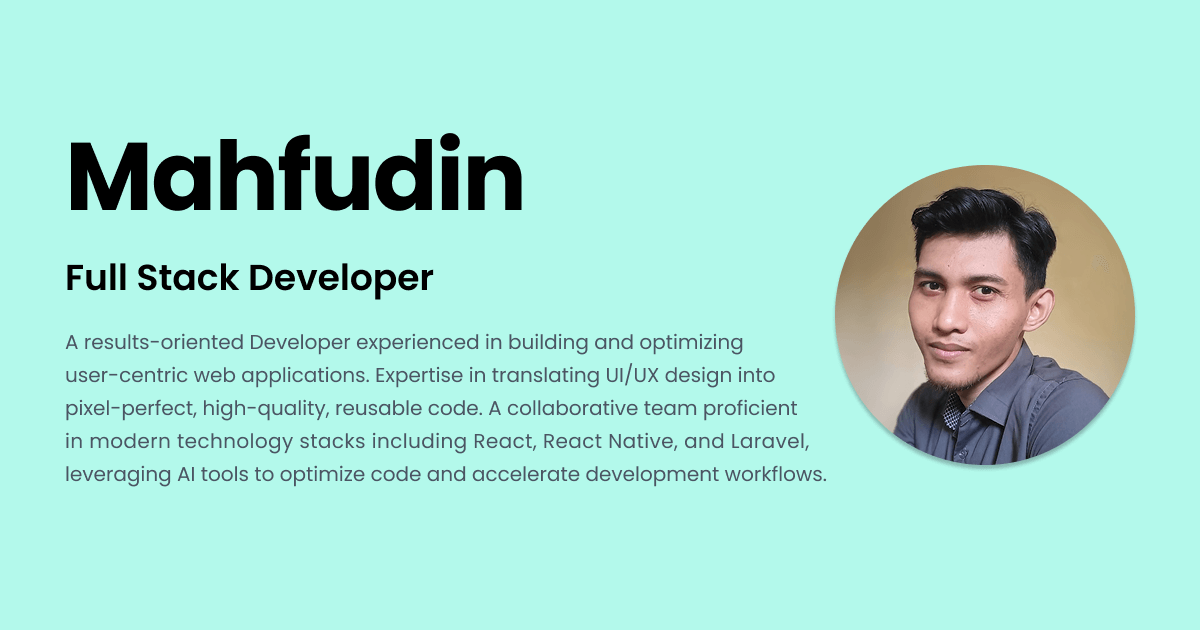
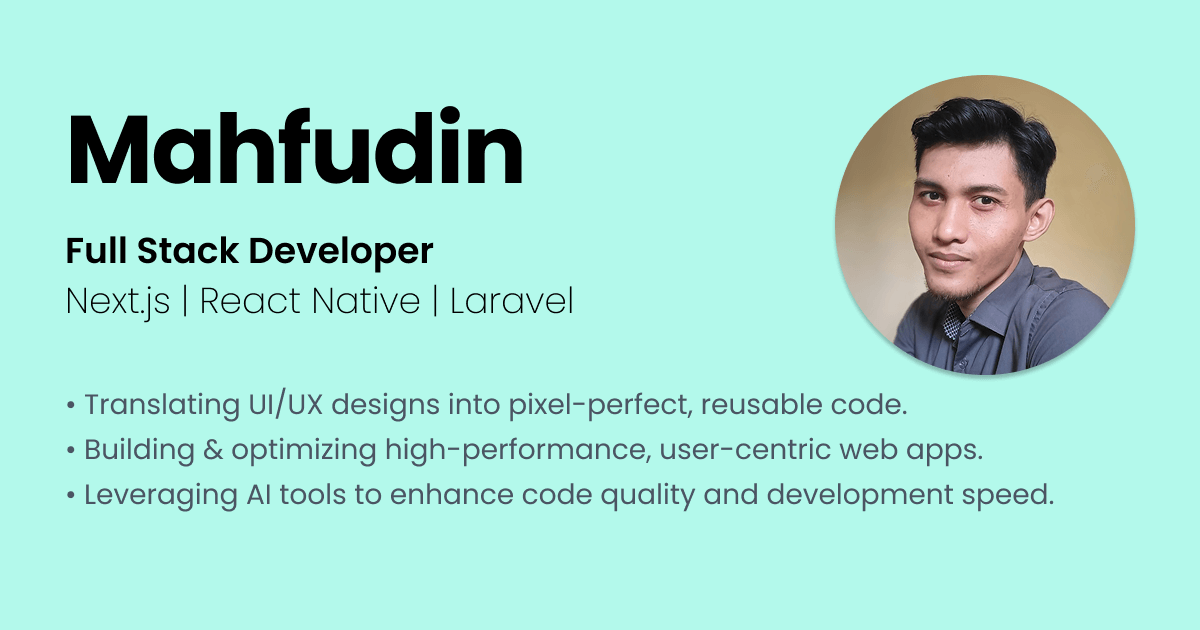
chore: update metadata for SEO

Changed region(s): [[0.0308, 0.1206, 0.9558, 0.8143], [0.0617, 0.1508, 0.4625, 0.3317]]

diff --git a/src/app/layout.tsx b/src/app/layout.tsx
@@ -7,15 +7,15 @@ import Footer from "@/components/layout/footer";
 
 const inter = Inter({ subsets: ["latin"] });
 
-const title = "Mahfudin Fudi | Web Developer From Jakarta, ID.";
+const title = "Mahfudin Fudi | Full Stack Developer From Jakarta, ID.";
 const description =
-  "A self-praclaimed designer who specializes in frontend development (React.js), from Jakarta, ID";
+  "A collaborative Developer specializing in user-centric applications. Expertise in Next.js, React Native, Laravel, and AI-powered to optimize code and accelerate development workflows.";
 const url = "https://fudi-mahfudin.github.io";
 
 export const metadata: Metadata = {
   title,
   description,
-  keywords: ["Frontend Developer", "React Developer", "Next.js Developer"],
+  keywords: ["Full Stack Developer", "Next.js", "React Native", "Laravel"],
   creator: "Mahfudin Fudi",
   openGraph: {
     type: "website",

diff --git a/src/lib/data.tsx b/src/lib/data.tsx
@@ -99,7 +99,7 @@ export const TECHNOLOGIES: TechDetails[] = [
     logo: LogoTailwindcss,
     url: 'https://tailwindcss.com',
   },
-  { label: 'Shadcn/uiicon', logo: LogoShadcn, url: 'https://ui.shadcn.com' },
+  { label: 'Shadcn', logo: LogoShadcn, url: 'https://ui.shadcn.com' },
   { label: 'Zod', logo: LogoZod, url: 'https://zod.dev/' },
   { label: 'Prisma ORM', logo: LogoPrisma, url: 'https://prisma.io' },
   { label: 'Laravel', logo: LogoLaravel, url: 'https://laravel.com' },
